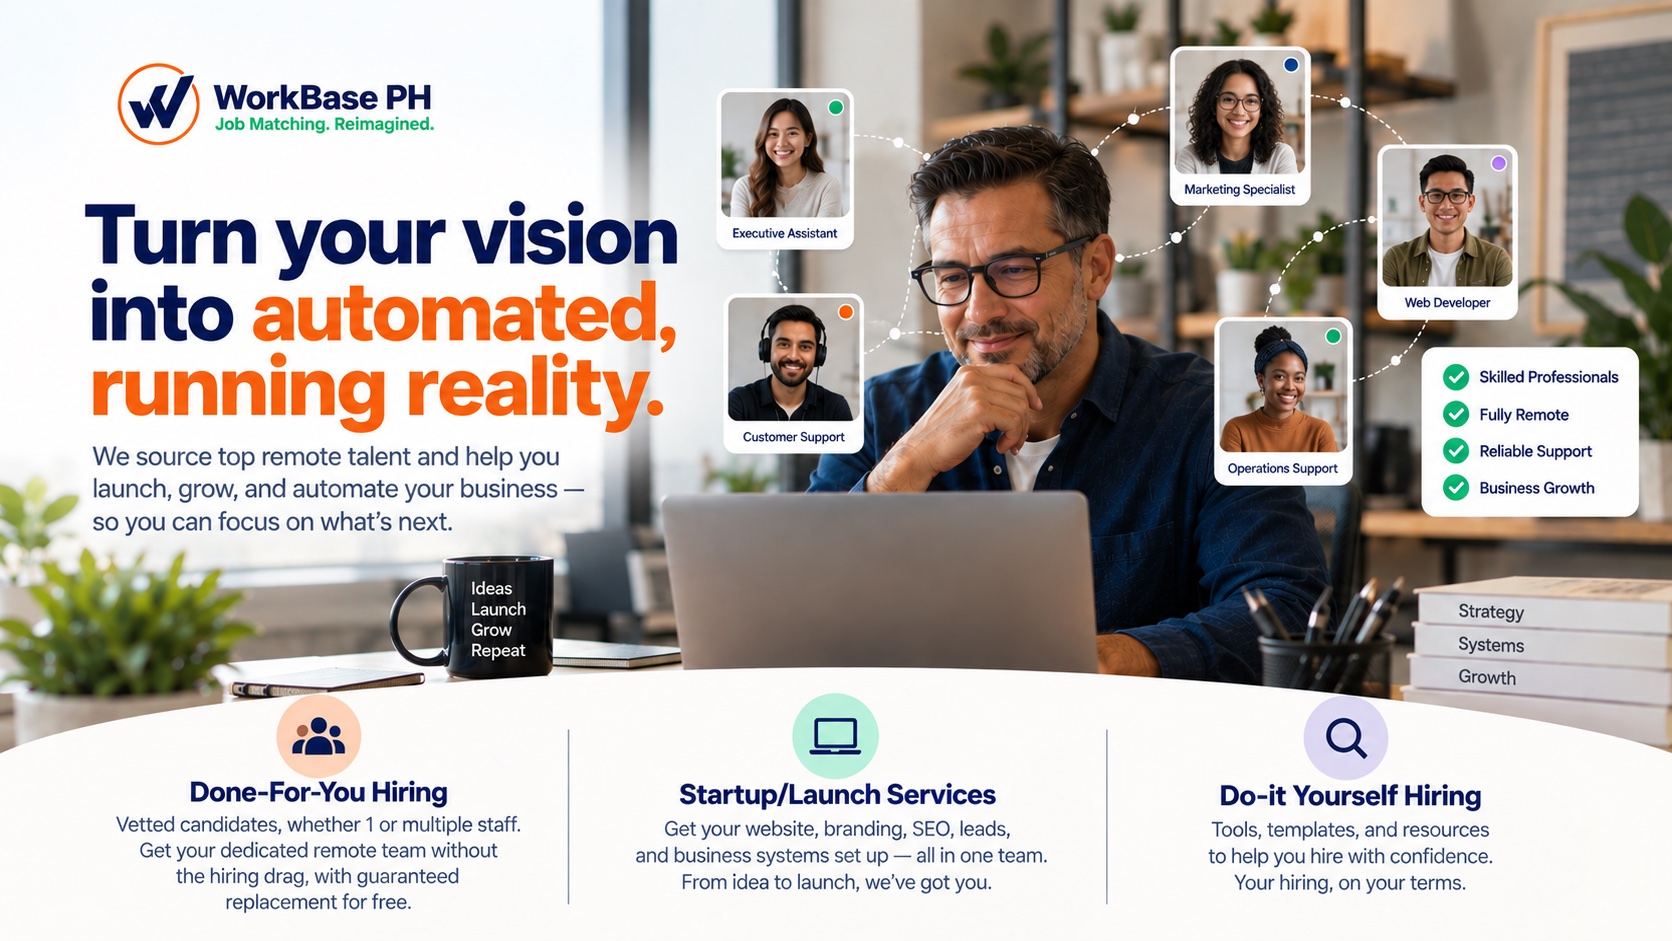
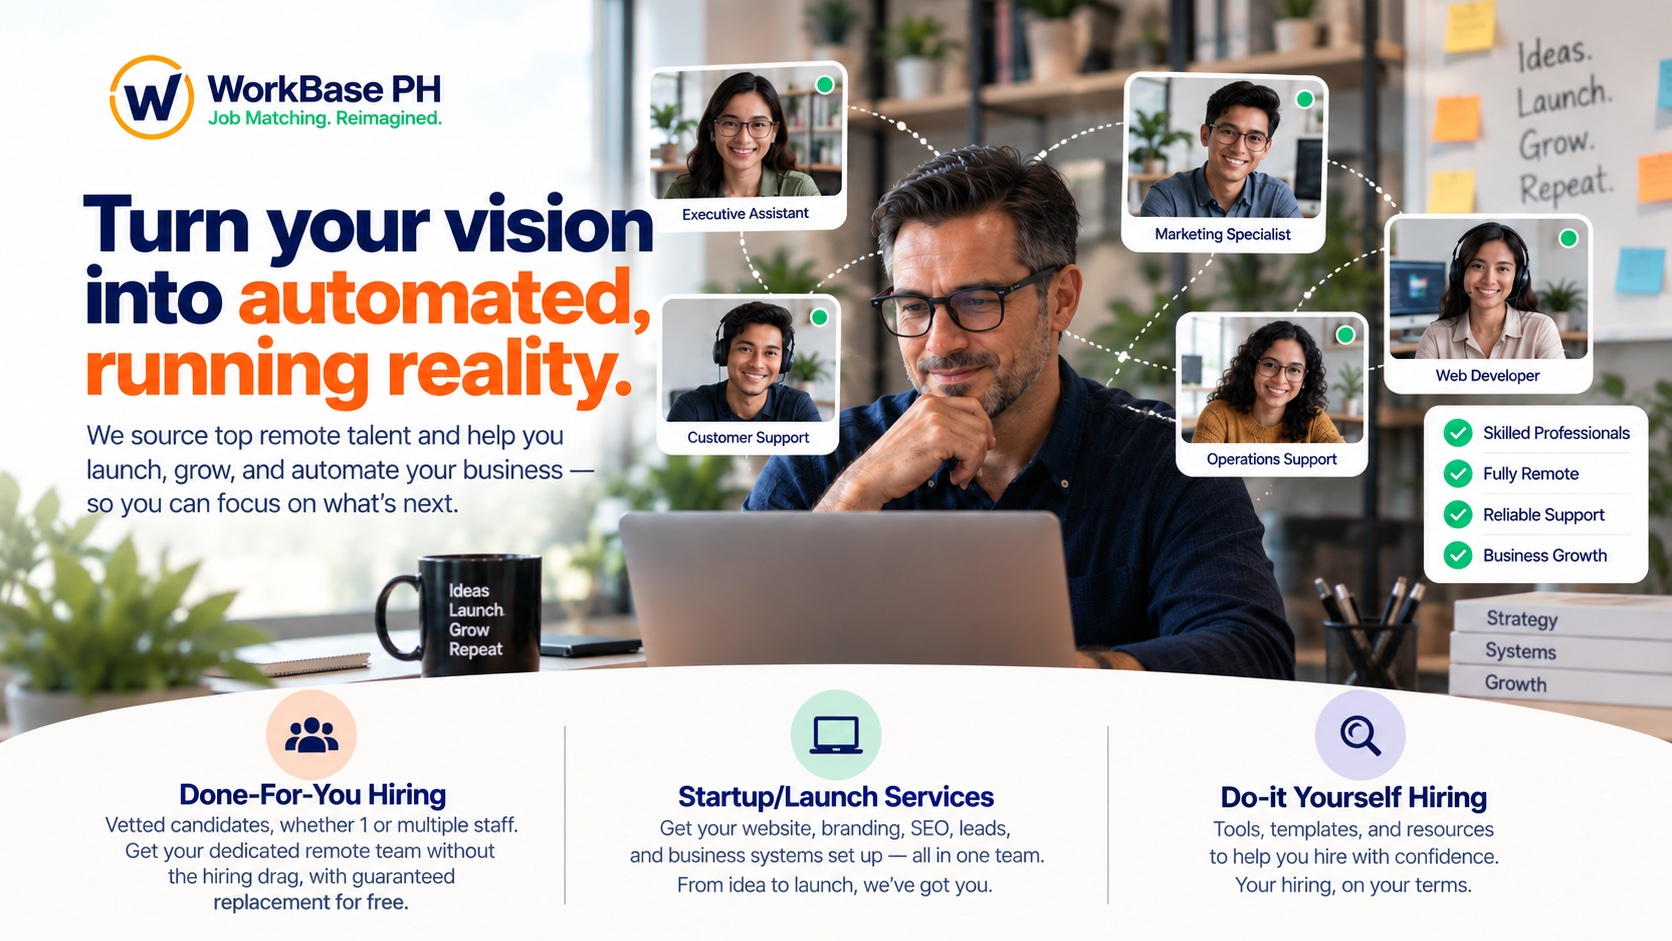
style(services): swap hero image + make it full-bleed across the hero
Replaced services-hero.jpg with the updated version (whiteboard
signage instead of bookshelf), and removed the max-width/rounded
card treatment so the image now spans the full hero section
edge-to-edge instead of sitting as a small centered card.

diff --git a/public/services.html b/public/services.html
@@ -92,7 +92,8 @@
     .section-hint { text-align:center; font-size:0.9rem; color:var(--text-muted); margin-bottom:3rem; max-width:600px; margin-left:auto; margin-right:auto; line-height:1.6; }
 
     /* ── HERO ── */
-    .hero { background: var(--grad); padding: 5rem 1.5rem 4.5rem; overflow:hidden; position:relative; text-align:center; }
+    .hero { background: var(--grad); padding: 0 0 4.5rem; overflow:hidden; position:relative; text-align:center; }
+    .hero-banner { width:100%; height:auto; display:block; margin-bottom:3rem; }
     .hero::before { content:''; position:absolute; inset:0; background: radial-gradient(ellipse 80% 60% at 50% 100%, rgba(26,138,122,0.18) 0%, transparent 70%); pointer-events:none; }
     .hero-inner { max-width:760px; margin:0 auto; position:relative; z-index:1; }
     .hero-eyebrow { display:inline-block; background:rgba(26,138,122,0.18); color:rgba(255,255,255,0.75); font-size:0.65rem; font-weight:800; letter-spacing:2.5px; text-transform:uppercase; padding:0.3rem 1rem; border-radius:99px; border:1px solid rgba(26,138,122,0.35); margin-bottom:1.5rem; }
@@ -188,7 +189,7 @@
 
 <!-- HERO -->
 <section class="hero">
-  <img src="images/services-hero.jpg" alt="WorkBase PH — turn your vision into automated, running reality. Remote executive assistant, customer support, marketing specialist, web developer, and operations support working with a founder." width="1672" height="941" style="width:100%;max-width:1100px;height:auto;border-radius:20px;box-shadow:0 24px 60px rgba(0,0,0,0.45);margin:0 auto 3rem;display:block;position:relative;z-index:1" />
+  <img src="images/services-hero.jpg" alt="WorkBase PH — turn your vision into automated, running reality. Remote executive assistant, customer support, marketing specialist, web developer, and operations support working with a founder." width="1672" height="941" class="hero-banner" />
   <div class="hero-inner">
     <div class="hero-eyebrow">Built for Founders</div>
     <h1>Your blueprint. <span>Our engine.</span></h1>
